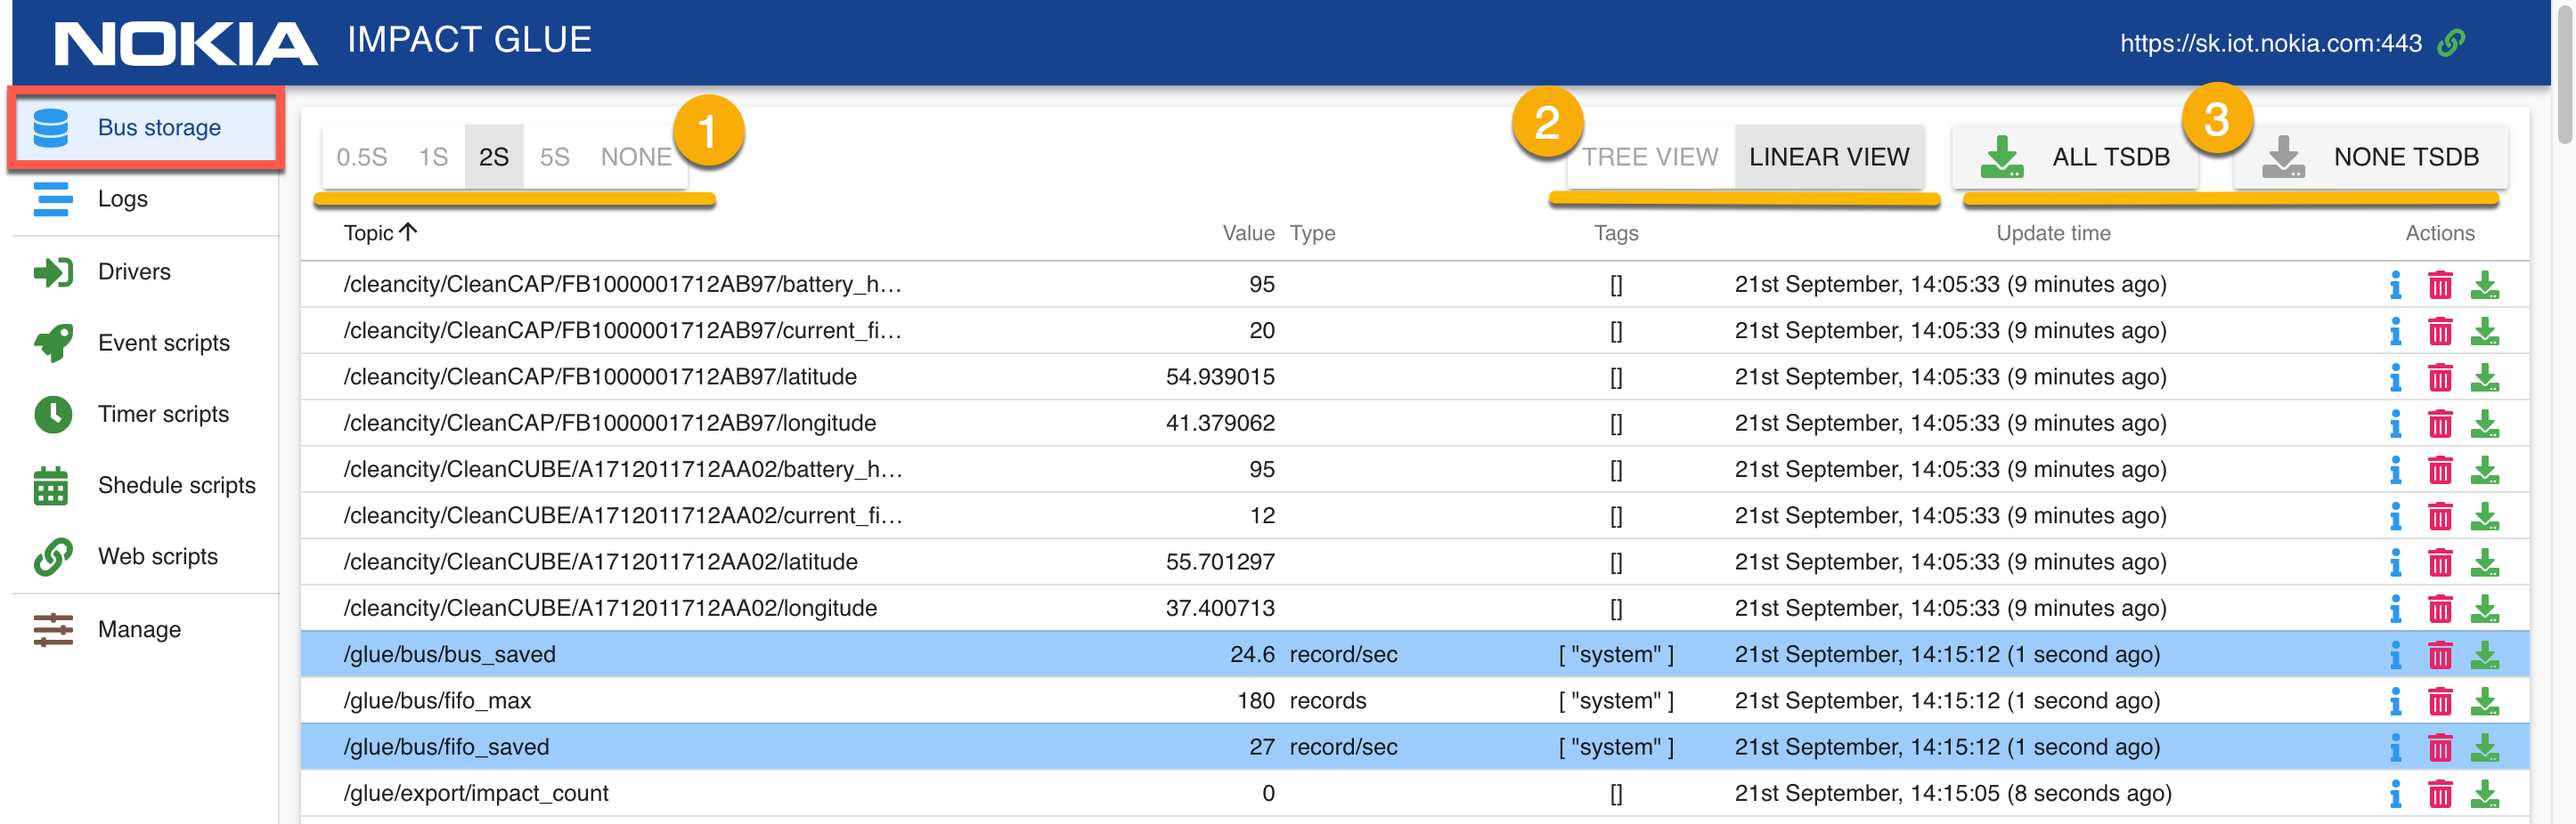
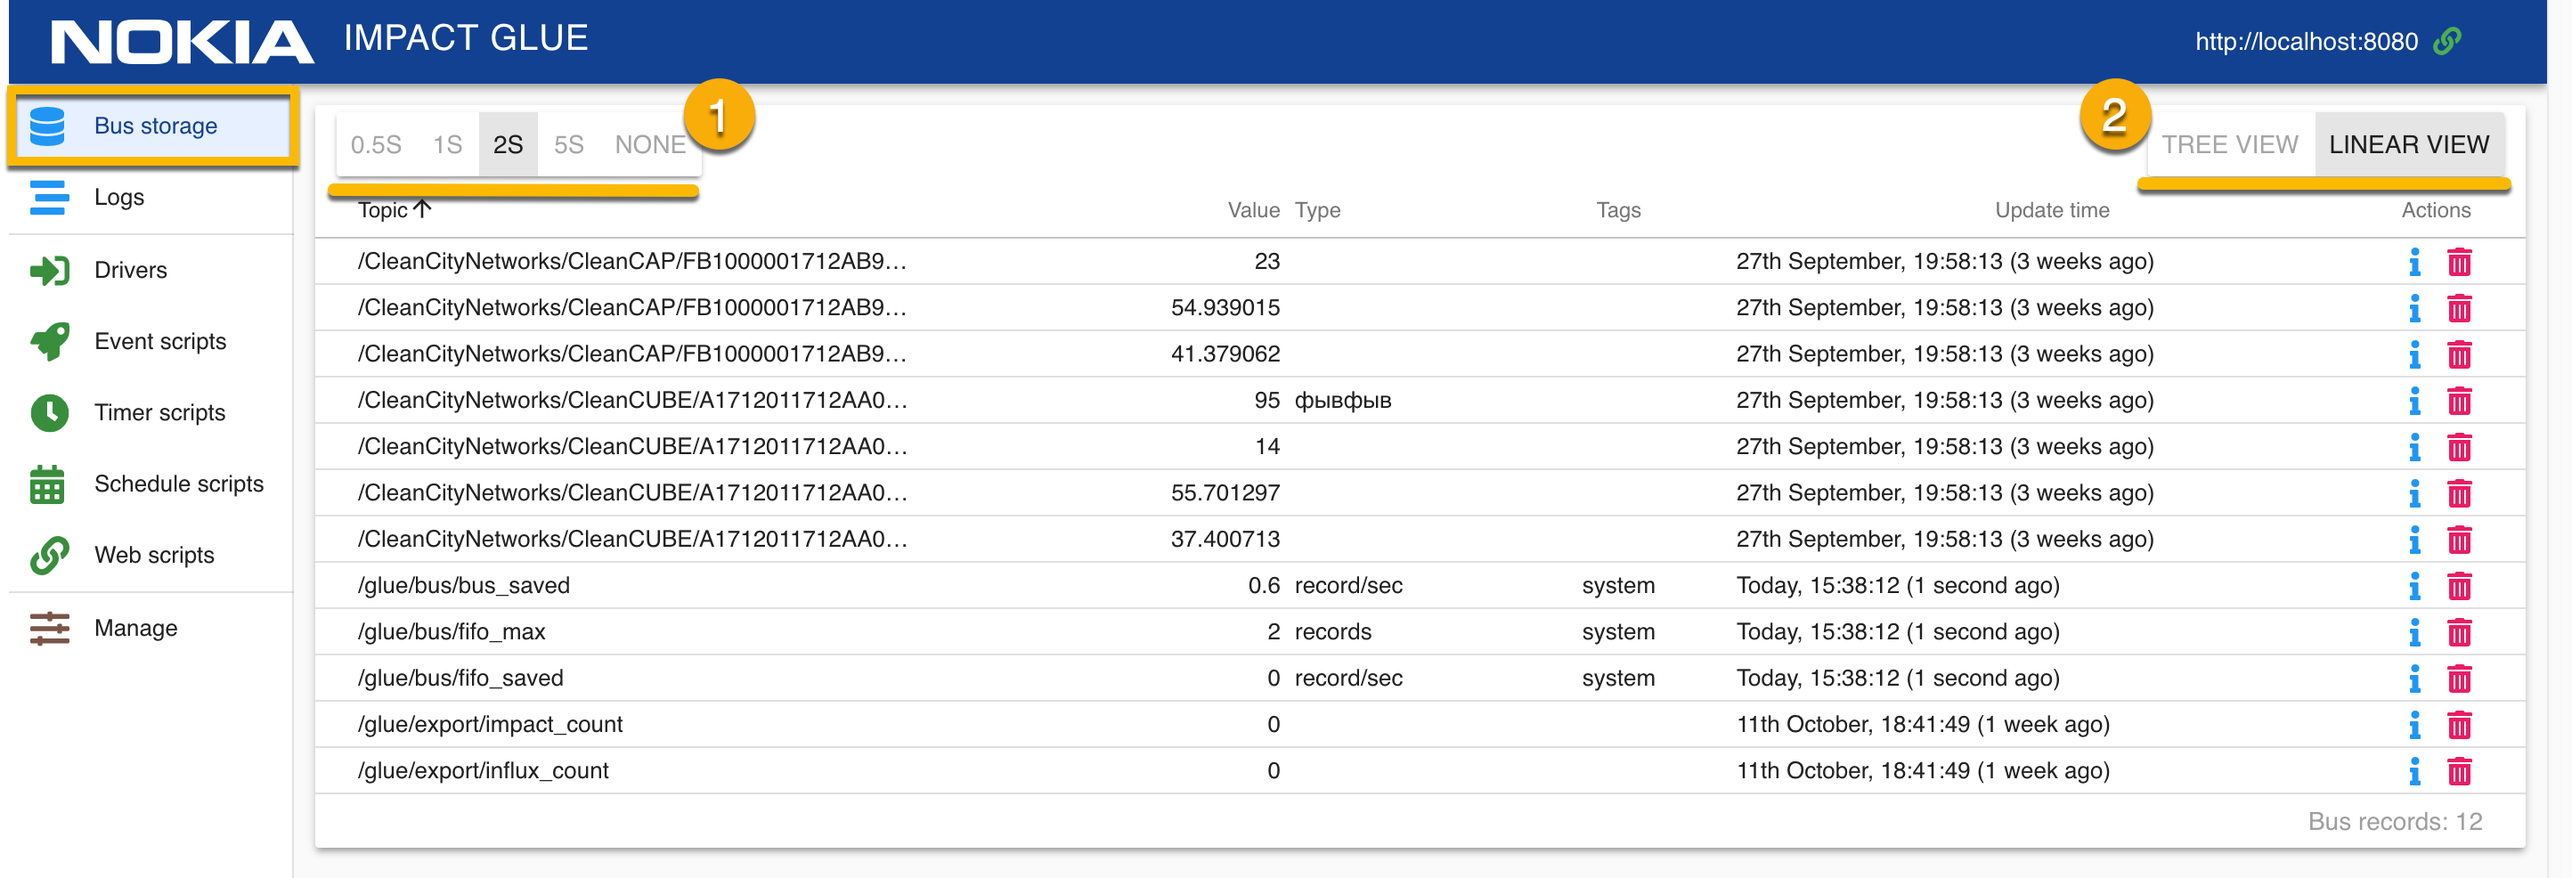
Removed mentions about export/TSDB from documentation.

Changed region(s): [[0.0, 0.0, 1.0, 0.9978]]

diff --git a/docs/panel.md b/docs/panel.md
@@ -9,7 +9,6 @@
 В верхней части панели расположены элементы управления:  
 1. Переключатель частоты обновления данных в панели. Данные, поступающие в шину обновляются в веб-панели с интервалом, заданным пользователем (от 0.5 до 5 сек). Существует и возможность приостановить обновление данных ("NONE").
 2. Переключатель между линейным и древовидным режимами отображения. 
-3. Переключатель экспорта данных всех топиков.
 
 ### Линейный и древовидный режим отображения  
 
@@ -44,7 +43,7 @@ cleancity+
 - **Type** - тип поступающих данных (формат, единица измерения и т.п.)
 - **Tags** - теги топика
 - **Update Time** - время последнего обновления топика
-- **Actions** - действия, которые можно совершать с топиком (открыть окно редактирования данных топика, удалить топик, включить/выключить экспорт)
+- **Actions** - действия, которые можно совершать с топиком (открыть окно редактирования данных топика, удалить топик)
 
 ### Окно подробной информации о топике
 
